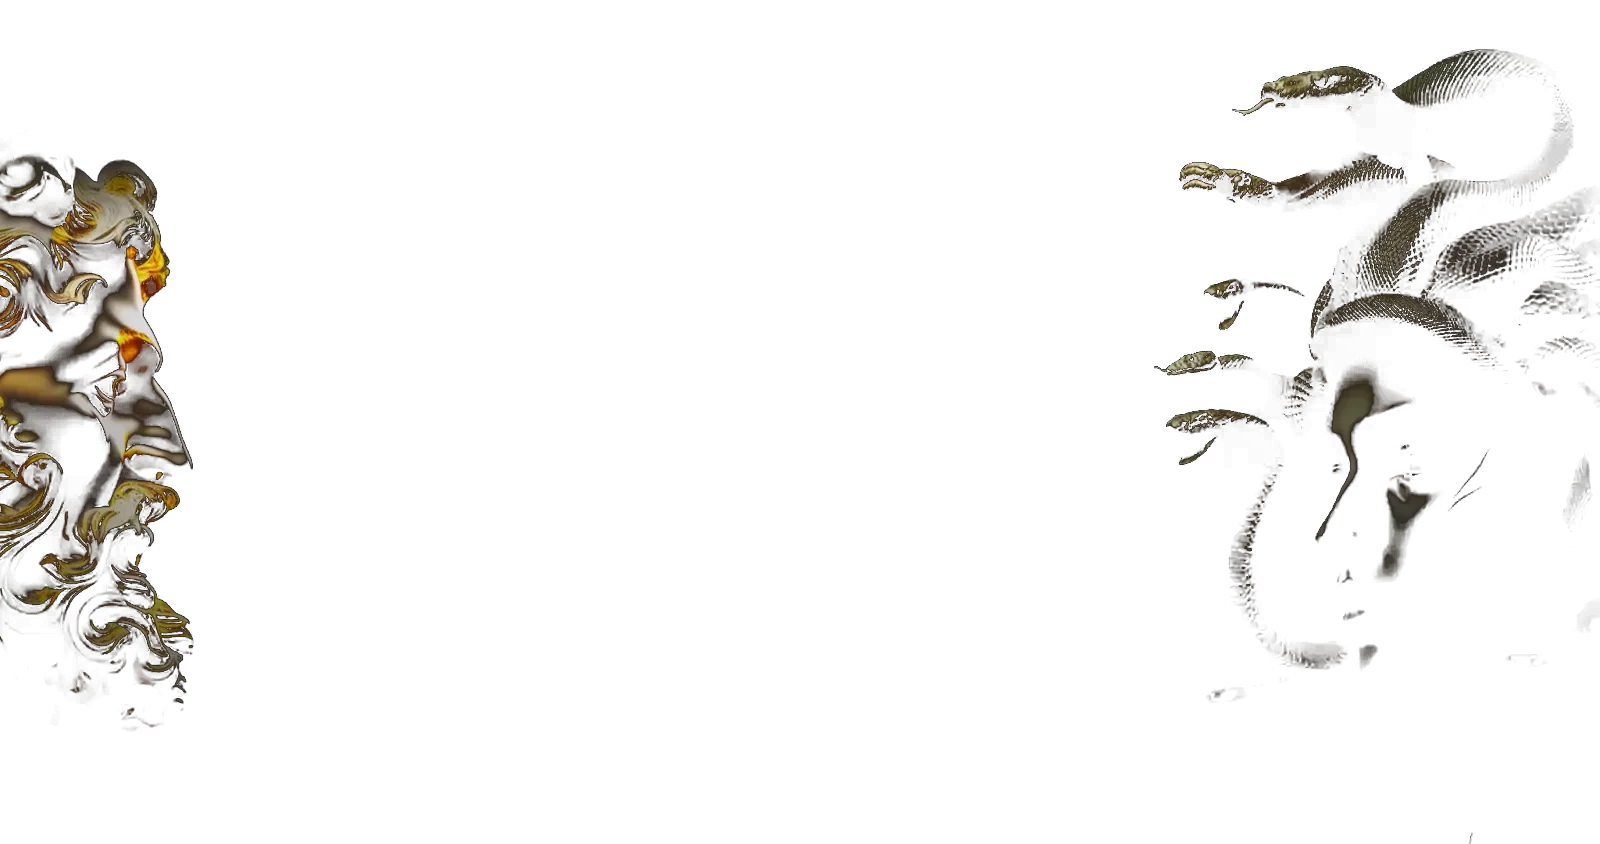
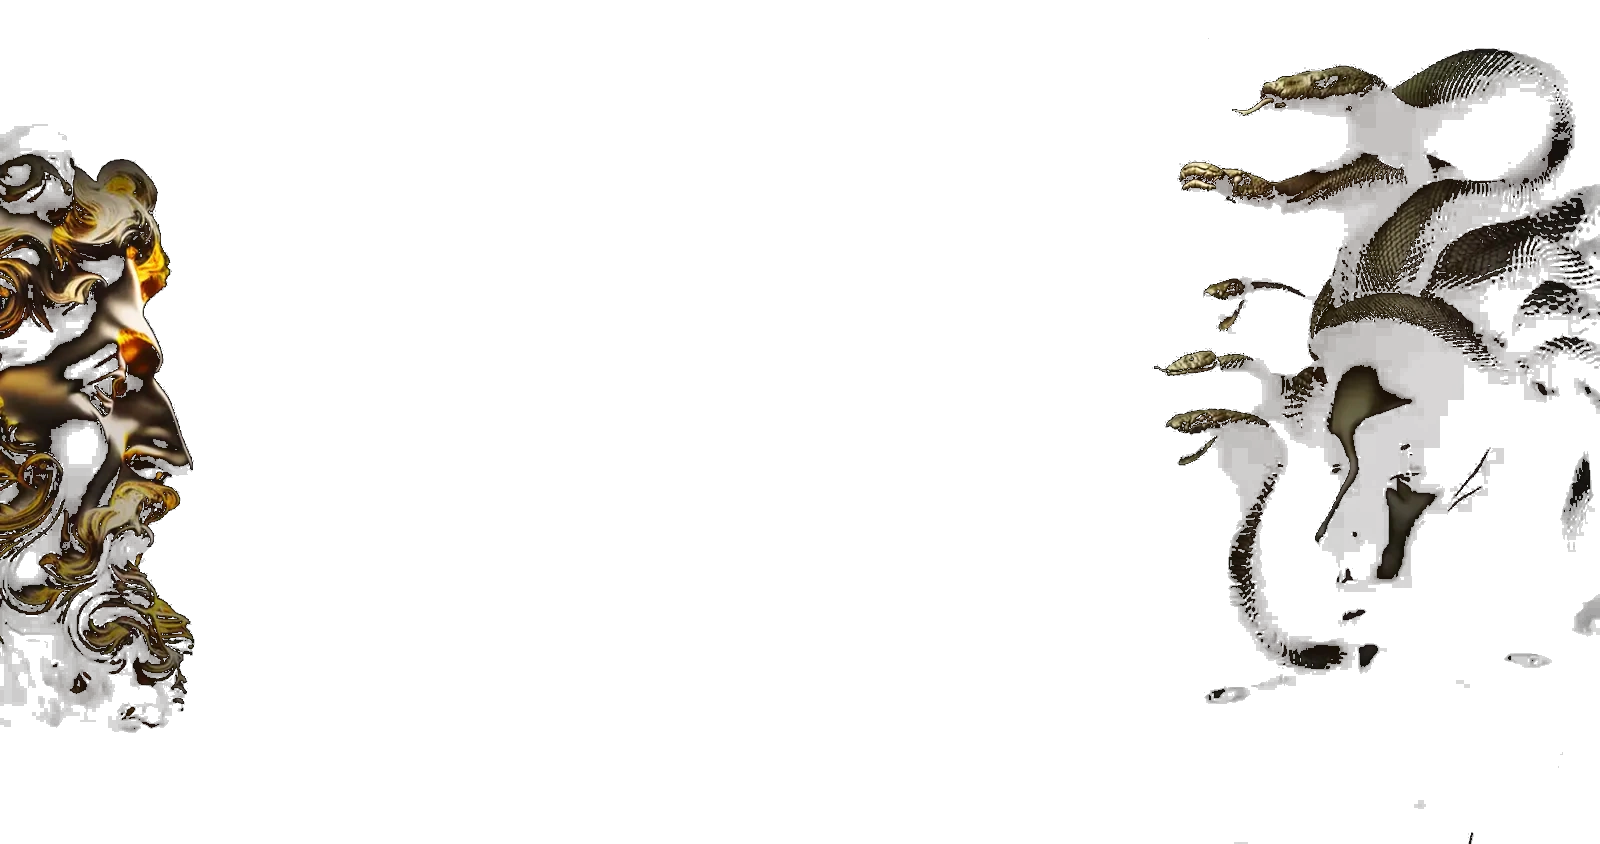
feat: enhance Medusa and Odin statues contrast and opacity by +30%

diff --git a/src/components/Hero.tsx b/src/components/Hero.tsx
@@ -63,7 +63,7 @@ export function Hero({ onEnterAtelier: _onEnterAtelier }: HeroProps) {
         <div className="absolute inset-0 bg-[#020202]/30" aria-hidden />
       </div>
 
-      {/* ── CAMADA SUPERIOR: MEDUSA E ODIN (PNG TRANSPARENTE COBRINDO A TELA TODA) ── */}
+      {/* ── CAMADA SUPERIOR: MEDUSA E ODIN (REFORÇADAS +30% DE PRESENÇA E CONTRASTE) ── */}
       <div className="absolute inset-0 z-10 pointer-events-none select-none overflow-hidden" aria-hidden>
         <picture className="w-full h-full">
           <source srcSet={MEDUSA_ODIN_WEBP} type="image/webp" />
@@ -73,7 +73,7 @@ export function Hero({ onEnterAtelier: _onEnterAtelier }: HeroProps) {
             aria-hidden
             className="absolute inset-0 w-full h-full object-cover object-center"
             style={{
-              filter: 'drop-shadow(0 4px 20px rgba(0,0,0,0.6))',
+              filter: 'contrast(1.2) brightness(1.12) drop-shadow(0 8px 30px rgba(0,0,0,0.85))',
             }}
             onError={(e) => {
               // Fallback caso a imagem não carregue
